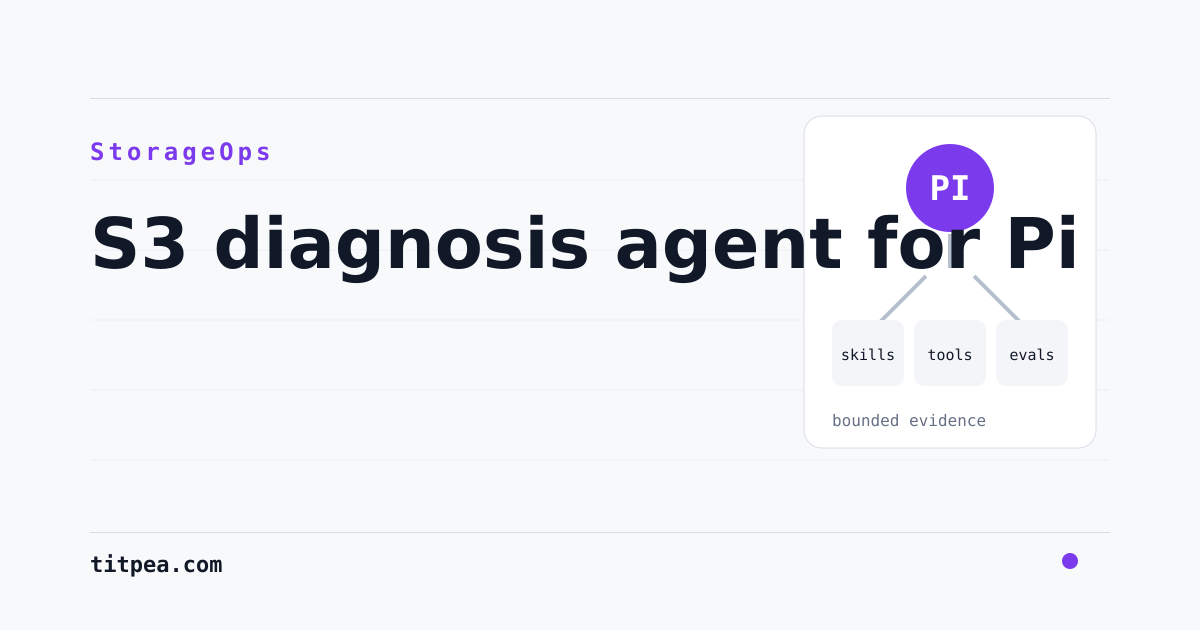
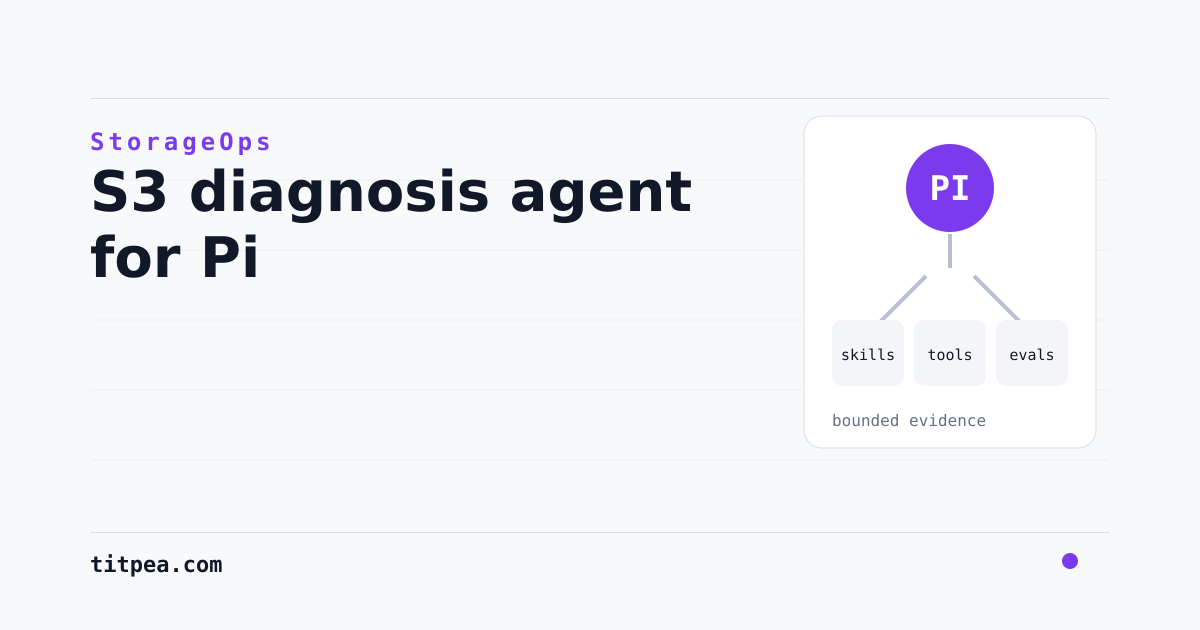
Fix OG image overflow and align Workbench content to the real app (#19)
OG images: the title was a single unwrapped <text> line that ran under
the right-hand visual panel (worst on the Workbench card, where it fell
off the canvas). resvg does not render <foreignObject>, so the title now
wraps by hand into <tspan> lines that stay clear of the panel. Fixes
every product's OG image, not just this one.

Storage Agent Workbench content, now that we've seen the real app:
- Reframe as a local chat agent you ask in plain language.
- Capabilities aligned to the app's own tasks (review bucket config,
  analyze access logs, inventory and capacity, map accounts and buckets,
  triage errors, optimize cost).
- New "Local and read-only" section (encrypted key vault, read-only
  cloud access, consent before any data movement) — the product's core
  trust story, previously only a single FAQ line.
- Bring-your-own-model called out in the proof rail and FAQ.
- Chinese copy aligned to the app's own UI wording.
- Hero visual diagnosis rows now mirror the app's 综合诊断 dimensions
  (security / protocol / cost).

Claude-Session: https://claude.ai/code/session_01Ruz4j3ojBeLf3iGBjAwXZH

Changed region(s): [[0.0617, 0.2111, 0.8942, 0.4524]]

diff --git a/src/content/products/storage-agent-workbench.ts b/src/content/products/storage-agent-workbench.ts
@@ -9,37 +9,49 @@ export const storageAgentWorkbenchProduct: AgentWorkbenchProduct = {
     en: {
       title: "Storage Agent Workbench",
       description:
-        "Storage Agent Workbench is a local, evidence-driven desktop app whose agent investigates S3-compatible storage read-only.",
+        "A local desktop app: ask about your S3-compatible storage in plain language and an agent investigates it read-only — keys and evidence stay on your machine.",
       eyebrow: "Tauri desktop app",
-      headline: "An agentic workbench for object storage",
-      lead: "A local desktop app that puts an agent to work on your S3-compatible storage — reviewing configuration, analyzing logs, and triaging errors, all read-only and on your machine.",
+      headline: "A chat agent for object storage",
+      lead: "A local desktop app: ask about your S3-compatible storage in plain language, and an agent investigates it read-only — keys and evidence stay on your machine.",
       primaryCta: { label: "Download", href: siteConfig.externalLinks.storageAgentWorkbenchReleases },
       secondaryCta: { label: "View on GitHub", href: siteConfig.externalLinks.storageAgentWorkbench },
       meta: "Tauri desktop app · macOS, Windows, Linux · Apache-2.0",
-      proof: ["Read-only", "Local-first", "DuckDB analysis", "Apache-2.0"],
+      proof: ["Read-only", "Local-first", "Your keys, your model", "Apache-2.0"],
       featuresLabel: "Capabilities",
       features: [
         {
-          title: "Configuration review",
-          body: "Read bucket policies, ACLs, encryption, and public-access settings, then flag the risky combinations.",
+          title: "Review bucket configuration",
+          body: "Policies, ACLs, encryption, versioning, and public-access settings — flagged when a combination is risky.",
           intent: "capability",
           surface: "agent",
         },
         {
-          title: "Log and inventory analysis",
-          body: "Import access logs and inventory locally, then let DuckDB answer questions about usage and access.",
+          title: "Analyze access logs",
+          body: "Import access logs and query them in DuckDB: who read what, hot prefixes, and unusual access.",
           intent: "capability",
           surface: "artifact",
         },
         {
-          title: "Error triage",
-          body: "Bring a failing request or error and the agent narrows it to a cause with the evidence attached.",
+          title: "Inventory and capacity",
+          body: "Turn an inventory into answers about object counts, sizes, storage classes, and growth.",
+          intent: "capability",
+          surface: "artifact",
+        },
+        {
+          title: "Map accounts and buckets",
+          body: "Sort out which buckets exist across accounts, what each is for, and which look orphaned.",
           intent: "capability",
           surface: "agent",
         },
         {
-          title: "Cost and usage profiling",
-          body: "See where storage and requests concentrate, so cleanup and tiering target the right prefixes.",
+          title: "Triage errors",
+          body: "Bring a failing request; it checks the object with range reads and metadata to narrow the cause.",
+          intent: "capability",
+          surface: "agent",
+        },
+        {
+          title: "Optimize cost and storage",
+          body: "See where cost concentrates and where lifecycle or tiering would actually help.",
           intent: "capability",
           surface: "artifact",
         },
@@ -47,47 +59,72 @@ export const storageAgentWorkbenchProduct: AgentWorkbenchProduct = {
       workflowLabel: "How a session runs",
       workflow: [
         {
-          title: "Connect an account",
-          body: "Add read-only credentials for an S3-compatible account; they stay in the app on your machine.",
+          title: "Ask in plain language",
+          body: "Start a chat, or pick a task like review bucket config or analyze access logs.",
           intent: "workflow",
           surface: "agent",
         },
         {
-          title: "Import evidence",
-          body: "Point it at inventory or access-log exports, or read live metadata — read-only, never writing back.",
+          title: "The agent plans",
+          body: "It picks read-only tools, reads policy, metadata, and logs, and works in DuckDB.",
+          intent: "workflow",
+          surface: "agent",
+        },
+        {
+          title: "Evidence, not guesses",
+          body: "Findings come with the log rows, object metadata, or config lines they rest on.",
           intent: "workflow",
           surface: "artifact",
         },
         {
-          title: "Let the agent work",
-          body: "The agent plans an investigation, runs the analysis in DuckDB, and threads its findings in the session.",
+          title: "You decide",
+          body: "Read the diagnosis, approve anything that moves data, and act with the evidence in hand.",
           intent: "workflow",
+          surface: "artifact",
+        },
+      ],
+      positioningLabel: "Local and read-only",
+      positioning: [
+        {
+          title: "Keys in a local vault",
+          body: "Credentials live in an encrypted vault on your machine and are never written to logs, reports, or model prompts.",
+          intent: "boundary",
           surface: "agent",
         },
         {
-          title: "Read the evidence",
-          body: "Every finding links back to the log rows or configuration it came from, so you can verify before acting.",
-          intent: "workflow",
+          title: "Read-only cloud access",
+          body: "The agent can inspect but not write: no deletes, no overwrites, no configuration changes.",
+          intent: "boundary",
+          surface: "protocol",
+        },
+        {
+          title: "You approve data movement",
+          body: "Downloads, large scans, and dataset analysis always ask first — nothing leaves without your go-ahead.",
+          intent: "boundary",
           surface: "artifact",
         },
       ],
       faqLabel: "Questions & how-to",
       faq: [
         {
-          title: "Does my data leave my machine?",
-          body: "No. Credentials, imported evidence, and analysis stay local. The workbench is built to investigate without moving data out.",
+          title: "Which AI model does it use?",
+          body: "You bring your own: configure a model provider and key. The key stays in the local vault and is never sent anywhere but your chosen provider.",
         },
         {
-          title: "How is this different from StorageOps?",
-          body: "StorageOps gives an existing agent (Pi) storage skills; Storage Agent Workbench is a self-contained desktop app that runs the investigation on its own.",
+          title: "Does my data leave my machine?",
+          body: "No. Credentials, imported evidence, and analysis stay local; any action that moves data asks for consent first.",
         },
         {
           title: "Can it change my storage?",
-          body: "No. Investigations are read-only by design. It reads configuration, logs, and metadata and leaves the account untouched.",
+          body: "No. Cloud access is read-only by design — no writes, deletes, or configuration changes.",
+        },
+        {
+          title: "How is this different from StorageOps?",
+          body: "StorageOps gives an existing agent (Pi) storage skills; the Workbench is a self-contained desktop app that runs the whole investigation itself.",
         },
         {
           title: "What platforms does it run on?",
-          body: "It is a Tauri desktop app for macOS, Windows, and Linux. The project is Apache-2.0.",
+          body: "A Tauri desktop app for macOS, Windows, and Linux. The project is Apache-2.0.",
         },
       ],
       finalCta: "Investigate your storage locally",
@@ -95,37 +132,50 @@ export const storageAgentWorkbenchProduct: AgentWorkbenchProduct = {
     },
     zh: {
       title: "Storage Agent Workbench",
-      description: "Storage Agent Workbench 是本地、证据驱动的桌面应用，agent 只读调查 S3 兼容存储。",
+      description:
+        "Storage Agent Workbench 是本地桌面应用：用大白话问你的 S3 兼容存储，agent 就只读调查，密钥和证据都留在本机。",
       eyebrow: "Tauri 桌面应用",
-      headline: "对象存储的 agent 工作台",
-      lead: "本地桌面应用，把一个 agent 派去查你的 S3 兼容存储——审配置、看日志、定位报错，全程只读，证据留在本机。",
+      headline: "对象存储的对话式 agent",
+      lead: "本地桌面应用：用大白话问你的 S3 兼容存储，agent 就去只读调查——密钥和证据都留在本机。",
       primaryCta: { label: "下载", href: siteConfig.externalLinks.storageAgentWorkbenchReleases },
       secondaryCta: { label: "查看 GitHub", href: siteConfig.externalLinks.storageAgentWorkbench },
       meta: "Tauri 桌面应用 · macOS、Windows、Linux · Apache-2.0",
-      proof: ["只读", "本地优先", "DuckDB 分析", "Apache-2.0"],
+      proof: ["只读", "本地优先", "你的模型你的密钥", "Apache-2.0"],
       featuresLabel: "能做什么",
       features: [
         {
-          title: "配置审查",
-          body: "读取存储桶策略、ACL、加密与公开访问设置，标出有风险的组合。",
+          title: "审查桶配置",
+          body: "策略、ACL、加密、版本控制和公开访问设置——组合有风险时会标出来。",
           intent: "capability",
           surface: "agent",
         },
         {
-          title: "日志与清单分析",
-          body: "把访问日志和清单导入本地，用 DuckDB 回答用量和访问方面的问题。",
+          title: "分析访问日志",
+          body: "把访问日志导入本地，用 DuckDB 查：谁读了什么、热点前缀、异常访问。",
           intent: "capability",
           surface: "artifact",
         },
         {
-          title: "报错定位",
-          body: "把失败的请求或报错交给它，agent 会连着证据把原因缩到具体一点。",
+          title: "清单与容量",
+          body: "把清单变成可回答的问题：对象数量、大小、存储类别和增长。",
+          intent: "capability",
+          surface: "artifact",
+        },
+        {
+          title: "梳理账号与桶",
+          body: "理清跨账号有哪些存储桶、各自的用途，以及哪些像是没人管的。",
           intent: "capability",
           surface: "agent",
         },
         {
-          title: "成本与用量画像",
-          body: "看清存储和请求集中在哪里，清理和分层就能对准真正的前缀。",
+          title: "诊断错误",
+          body: "把失败的请求交给它，用 range 读取和元数据把原因缩到具体一点。",
+          intent: "capability",
+          surface: "agent",
+        },
+        {
+          title: "优化存储",
+          body: "看清成本集中在哪里，哪里做生命周期或分层才真的有用。",
           intent: "capability",
           surface: "artifact",
         },
@@ -133,47 +183,72 @@ export const storageAgentWorkbenchProduct: AgentWorkbenchProduct = {
       workflowLabel: "一次会话怎么跑",
       workflow: [
         {
-          title: "连接账户",
-          body: "为 S3 兼容账户填入只读凭证；凭证留在你机器上的应用里。",
+          title: "用大白话问",
+          body: "开一段对话，或直接选「审查桶配置」「分析访问日志」这类任务。",
           intent: "workflow",
           surface: "agent",
         },
         {
-          title: "导入证据",
-          body: "指向清单或访问日志导出，或读取实时元数据——只读，绝不回写。",
+          title: "agent 来规划",
+          body: "它挑只读工具，读策略、元数据和日志，在 DuckDB 里分析。",
+          intent: "workflow",
+          surface: "agent",
+        },
+        {
+          title: "只给证据不猜",
+          body: "每条发现都带着它依据的日志行、对象元数据或配置行。",
           intent: "workflow",
           surface: "artifact",
         },
         {
-          title: "交给 agent",
-          body: "agent 规划一次调查，在 DuckDB 里跑分析，并把发现按线程整理在会话里。",
+          title: "你来拍板",
+          body: "看完综合诊断，涉及搬数据的再点确认，带着证据动手。",
           intent: "workflow",
+          surface: "artifact",
+        },
+      ],
+      positioningLabel: "本地 · 只读",
+      positioning: [
+        {
+          title: "密钥进本机保险库",
+          body: "凭证存在本机加密保险库里，绝不写进日志、报告或模型提示词。",
+          intent: "boundary",
           surface: "agent",
         },
         {
-          title: "查看证据",
-          body: "每条发现都链回它依据的日志行或配置，动手前你能自己核对。",
-          intent: "workflow",
+          title: "云访问只读",
+          body: "agent 只能看、不能写：不删除、不覆盖、不改配置。",
+          intent: "boundary",
+          surface: "protocol",
+        },
+        {
+          title: "搬数据你说了算",
+          body: "下载、大规模扫描、数据集分析都会先问你——没有你的同意什么都不会外流。",
+          intent: "boundary",
           surface: "artifact",
         },
       ],
       faqLabel: "问题与用法",
       faq: [
         {
-          title: "我的数据会离开本机吗",
-          body: "不会。凭证、导入的证据和分析都留在本地；这个工作台就是为了不搬数据也能调查。",
+          title: "它用哪个 AI 模型",
+          body: "你自带：配置一个模型提供商和 key。key 留在本机保险库，除了你选的提供商不会发去别处。",
         },
         {
-          title: "和 StorageOps 有什么区别",
-          body: "StorageOps 让你已有的 agent（Pi）会查存储；Storage Agent Workbench 是自成一体的桌面应用，自己完成整个调查。",
+          title: "我的数据会离开本机吗",
+          body: "不会。凭证、导入的证据和分析都留在本地；涉及搬运数据的操作会先征得你同意。",
         },
         {
           title: "它会改动我的存储吗",
-          body: "不会。调查按设计是只读的。它读取配置、日志和元数据，不动账户本身。",
+          body: "不会。云访问按设计只读——不写、不删、不改配置。",
+        },
+        {
+          title: "和 StorageOps 有什么区别",
+          body: "StorageOps 让你已有的 agent（Pi）会查存储；工作台是自成一体的桌面应用，自己完成整个调查。",
         },
         {
           title: "支持哪些平台",
-          body: "它是面向 macOS、Windows 和 Linux 的 Tauri 桌面应用。项目采用 Apache-2.0。",
+          body: "面向 macOS、Windows 和 Linux 的 Tauri 桌面应用。项目采用 Apache-2.0。",
         },
       ],
       finalCta: "在本地开始调查你的存储",

diff --git a/src/content/productInsideModels.ts b/src/content/productInsideModels.ts
@@ -67,15 +67,15 @@ export const productInsideModels: Record<ProductSlug, Record<Locale, ProductInsi
       id: "inside",
       kind: "inside",
       kicker: "Desktop agent app",
-      title: "A workbench that investigates storage for you",
-      body: "Storage Agent Workbench is a local desktop app: point it at an S3-compatible account, and an agent runs read-only investigations — configuration review, log and inventory analysis, error triage, and cost profiling — with the evidence kept on your machine.",
+      title: "Ask about your storage, get evidence back",
+      body: "Storage Agent Workbench is a local desktop chat app. Ask about an S3-compatible account in plain language and the agent runs a read-only investigation — configuration review, log and inventory analysis, error triage, cost — with keys and evidence kept on your machine.",
     },
     zh: {
       id: "inside",
       kind: "inside",
       kicker: "桌面 agent 应用",
-      title: "一个替你调查存储的工作台",
-      body: "Storage Agent Workbench 是本地桌面应用：连上 S3 兼容账户，agent 会做只读调查——配置审查、日志与清单分析、报错定位、成本画像——证据全程留在你自己机器上。",
+      title: "问一句存储，拿回一份证据",
+      body: "Storage Agent Workbench 是本地桌面对话应用。用大白话问一个 S3 兼容账户，agent 就做只读调查——审查桶配置、分析日志与清单、诊断错误、看成本——密钥和证据都留在你自己机器上。",
     },
   },
   storageops: {

diff --git a/src/content/i18n/visualCopy.ts b/src/content/i18n/visualCopy.ts
@@ -96,8 +96,8 @@ export const visualCopy = {
       steps: ["Read bucket policy", "Scan ACLs and CORS", "Query access logs · DuckDB"],
       diagnosisLabel: "Diagnosis",
       diagnosis: [
-        { dim: "Access", verdict: "1 bucket allows public list · policy.json:12" },
-        { dim: "Lifecycle", verdict: "No expiry rule; data never ages out" },
+        { dim: "Security", verdict: "1 bucket allows public list · policy.json:12" },
+        { dim: "Protocol", verdict: "Multipart objects may fail Range GET" },
         { dim: "Cost", verdict: "~86 MiB Standard · low, no action" },
       ],
       footnotes: ["Read-only · evidence stays local", "macOS · Windows · Linux"],
@@ -112,8 +112,8 @@ export const visualCopy = {
       steps: ["读取存储桶策略", "扫描 ACL 与 CORS", "查询访问日志 · DuckDB"],
       diagnosisLabel: "综合诊断",
       diagnosis: [
-        { dim: "访问", verdict: "1 个存储桶允许公开列举 · policy.json:12" },
-        { dim: "生命周期", verdict: "无过期规则，数据不会自动老化" },
+        { dim: "安全", verdict: "1 个存储桶允许公开列举 · policy.json:12" },
+        { dim: "协议兼容", verdict: "分片上传对象可能 Range GET 失败" },
         { dim: "成本", verdict: "~86 MiB 标准存储 · 极低，无需处理" },
       ],
       footnotes: ["只读 · 证据留在本地", "macOS · Windows · Linux"],

diff --git a/src/content/productArchetypes.ts b/src/content/productArchetypes.ts
@@ -129,6 +129,12 @@ export const productArchetypeContracts: Record<ProductArchetype, ProductArchetyp
         source: "workflow",
         required: true,
       },
+      {
+        id: "positioning",
+        label: { en: "Local and read-only", zh: "本地 · 只读" },
+        source: "positioning",
+        required: true,
+      },
       { id: "faq", label: { en: "FAQ", zh: "FAQ" }, required: true },
     ],
   },

diff --git a/src/lib/site.ts b/src/lib/site.ts
@@ -91,6 +91,7 @@ export type BrowserExtensionProductCopy = ProductCopy & {
 export type AgentWorkbenchProductCopy = ProductCopy & {
   features: ProductContentCard[];
   workflow: ProductContentCard[];
+  positioning: ProductContentCard[];
   faq: ProductContentCard[];
 };
 
